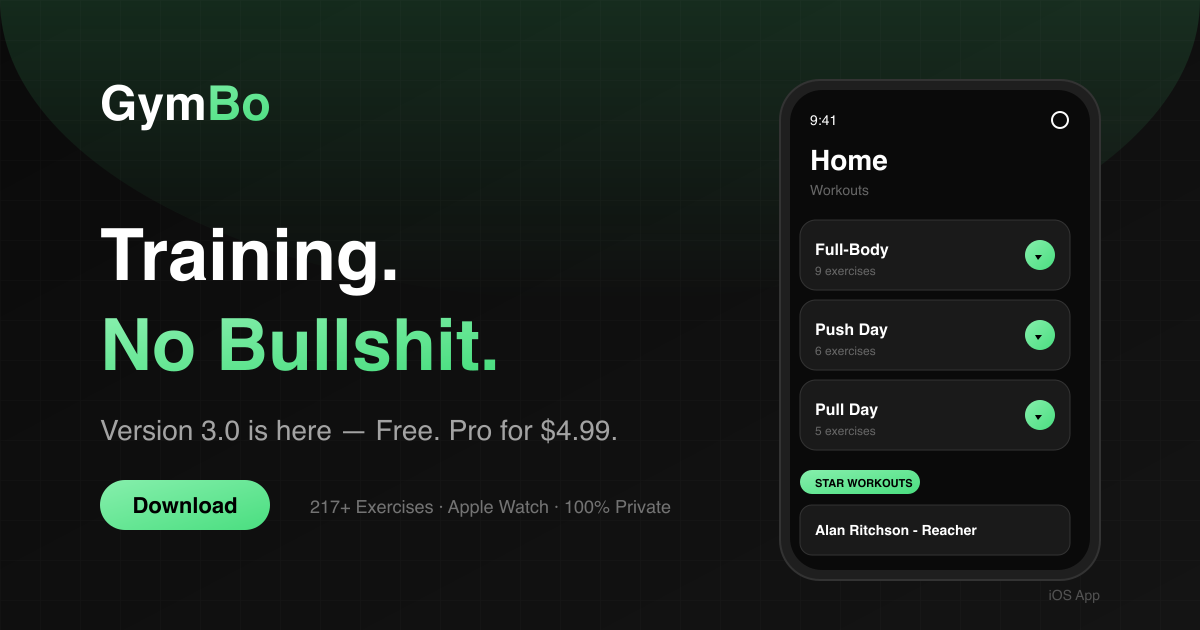
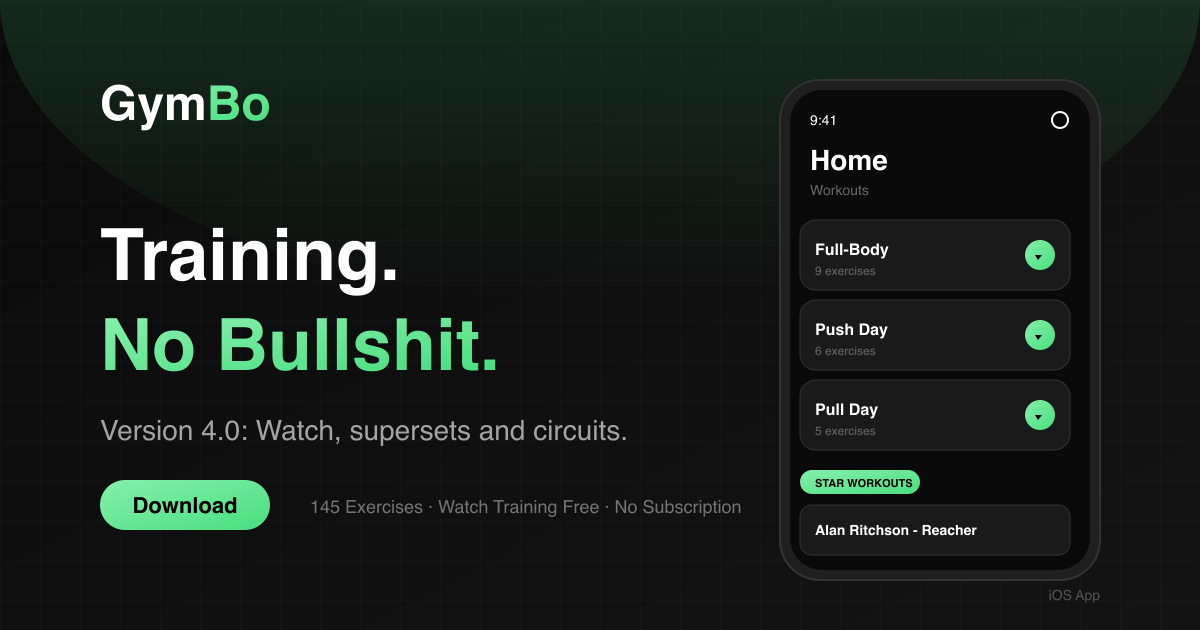
feat: Webseite auf Version 4.0 vorbereiten (#15)
- Social-Preview (og-preview.png DE/EN) neu gerendert: "Version 3.0 ist da", 217+ Übungen, 4,99 € und 100 % Privat entfernt
- Neuer Abschnitt "Neu in GymBo 4.0" (DE/EN), Versions-Pill verweist darauf
- Begriffe vereinheitlicht: Supersatz/Zirkel statt Superset/Circuit (DE)
- FAQ: Wechsel-Ablauf seit 4.0 ergänzt
- Cache-Bust og-preview ?v=3, Claim-Validator prüft den 4.0-Abschnitt

Changed region(s): [[0.1542, 0.6635, 0.5242, 0.7238], [0.2467, 0.7841, 0.6167, 0.8143]]

diff --git a/index.html b/index.html
@@ -38,7 +38,7 @@
         <meta property="og:url" content="https://gymbo.pro/">
         <meta property="og:title" content="GymBo – Krafttraining am Handgelenk">
         <meta property="og:description" content="Vollständige Workouts auf iPhone und Apple Watch. Watch-Training kostenlos, Pro als einmaliger Kauf statt Abo.">
-        <meta property="og:image" content="https://gymbo.pro/og-preview.png?v=2">
+        <meta property="og:image" content="https://gymbo.pro/og-preview.png?v=3">
         <meta property="og:locale" content="de_DE">
         <meta property="og:locale:alternate" content="en_US">
         <meta property="og:site_name" content="GymBo">
@@ -48,7 +48,7 @@
         <meta name="twitter:url" content="https://gymbo.pro/">
         <meta name="twitter:title" content="GymBo – Krafttraining am Handgelenk">
         <meta name="twitter:description" content="Vollständige Workouts auf iPhone und Apple Watch. Watch-Training kostenlos, Pro als einmaliger Kauf statt Abo.">
-        <meta name="twitter:image" content="https://gymbo.pro/og-preview.png?v=2">
+        <meta name="twitter:image" content="https://gymbo.pro/og-preview.png?v=3">
 
         <!-- Favicon -->
         <link rel="icon" type="image/svg+xml" href="/favicon.svg">
@@ -73,7 +73,7 @@
                 "name": "GymBo Free"
             },
             "description": "Watch-first Krafttracker für iPhone und Apple Watch mit 145 Übungen. Watch-Training kostenlos, Pro als einmaliger Kauf statt Abo.",
-            "screenshot": "https://gymbo.pro/og-preview.png?v=2",
+            "screenshot": "https://gymbo.pro/og-preview.png?v=3",
             "author": {
                 "@type": "Person",
                 "name": "Ben Kohler",
@@ -1774,6 +1774,17 @@
                 content: '→';
             }
 
+
+            /* Neu in 4.0 */
+            .whatsnew-section { max-width: 1100px; margin: 0 auto; padding: 96px 24px 8px; }
+            .whatsnew-section h2 { text-align: center; margin-bottom: 12px; }
+            .whatsnew-intro { text-align: center; color: var(--text-secondary); max-width: 560px; margin: 0 auto 40px; }
+            .whatsnew-grid { display: grid; grid-template-columns: repeat(auto-fit, minmax(260px, 1fr)); gap: 16px; }
+            .whatsnew-card { background: var(--bg-surface); border: 1px solid var(--border); border-radius: 20px; padding: 24px; }
+            .whatsnew-card i { font-size: 1.5rem; color: var(--accent); display: block; margin-bottom: 12px; }
+            .whatsnew-card h3 { font-size: 1.05rem; margin-bottom: 6px; }
+            .whatsnew-card p { color: var(--text-secondary); font-size: 0.925rem; line-height: 1.55; margin: 0; }
+
             /* Footer - Minimal Single Line */
             .footer {
                 padding: 32px 24px;
@@ -2217,10 +2228,10 @@
             <section class="hero">
                 <div class="hero-content animate-in">
                     <!-- Version Announcement Pill -->
-                    <a href="/go/app-store" class="version-banner-content" target="_self">
-                        <span class="version-badge">Watch-first</span>
-                        <span class="version-text">Jetzt im App Store</span>
-                        <span class="version-link">Laden</span>
+                    <a href="#neu-in-4" class="version-banner-content">
+                        <span class="version-badge">Neu in 4.0</span>
+                        <span class="version-text">Watch, Supersätze und Zirkel</span>
+                        <span class="version-link">Entdecken</span>
                     </a>
                     <h1>Training.<br><span class="highlight">Ohne Bullshit.</span></h1>
                     <p class="hero-subtitle">
@@ -2260,6 +2271,21 @@
 
             <!-- Content Overlay - Scrolls over Hero -->
             <div class="content-overlay">
+
+            <!-- Neu in 4.0 -->
+            <section class="whatsnew-section animate-in" id="neu-in-4">
+                <h2>Neu in GymBo 4.0</h2>
+                <p class="whatsnew-intro">Das größte Update bisher: Training an der Watch, Supersätze und Zirkel im Wechsel und viele Verbesserungen im Alltag.</p>
+                <div class="whatsnew-grid">
+                    <div class="whatsnew-card"><i class="ph ph-watch"></i><h3>Training an der Apple Watch</h3><p>Starte und absolviere komplette Workouts direkt an der Watch.</p></div>
+                    <div class="whatsnew-card"><i class="ph ph-arrows-left-right"></i><h3>Supersätze und Zirkel im Wechsel</h3><p>Die Übungen einer Gruppe laufen abwechselnd durch, sind im Training und im Plan markiert und lassen sich als Block umsortieren.</p></div>
+                    <div class="whatsnew-card"><i class="ph ph-scales"></i><h3>Links und Rechts wechseln automatisch</h3><p>Einseitige Übungen wechseln die Seite von selbst, auch an der Watch.</p></div>
+                    <div class="whatsnew-card"><i class="ph ph-trend-up"></i><h3>Fortschritts-Feedback</h3><p>Nach jeder abgeschlossenen Übung. In den Einstellungen abschaltbar.</p></div>
+                    <div class="whatsnew-card"><i class="ph ph-chart-line-up"></i><h3>Statistik direkt aus dem Plan</h3><p>Die Statistik einer Übung öffnest du mit einem Tipp im Plan.</p></div>
+                    <div class="whatsnew-card"><i class="ph ph-share-network"></i><h3>Workout teilen</h3><p>Als Grafik für Story oder Beitrag.</p></div>
+                    <div class="whatsnew-card"><i class="ph ph-sun"></i><h3>Besser lesbar im hellen Modus</h3><p>Dazu viele Korrekturen bei Pausentimer, Gewichtseinheiten und Plänen.</p></div>
+                </div>
+            </section>
 
             <!-- Features Section -->
             <section class="features-section" id="features">
@@ -2375,7 +2401,7 @@
                             <i class="ph ph-plus-circle"></i>
                         </div>
                         <h3>Workout erstellen</h3>
-                        <p>Leeres Workout, Quick-Setup, Supersätze, Circuit Training oder der Workout Wizard — erstelle dein perfektes Training genau so, wie du es brauchst.</p>
+                        <p>Leeres Workout, Quick-Setup, Supersätze, Zirkeltraining oder der Workout Wizard. Die Übungen einer Gruppe laufen im Training abwechselnd durch und lassen sich im Plan als Block umsortieren.</p>
                     </div>
                     <div class="feature-visual">
                         <div class="device-frame">
@@ -2395,14 +2421,14 @@
                 <div class="feature-marquee-container">
                     <!-- Row 1 - scrolls left -->
                     <div class="feature-marquee">
-                        <div class="feature-pill"><i class="ph ph-arrows-left-right"></i><span>Supersätze & Circuits</span></div>
+                        <div class="feature-pill"><i class="ph ph-arrows-left-right"></i><span>Supersätze & Zirkel</span></div>
                         <div class="feature-pill"><i class="ph ph-scales"></i><span>Links/Rechts Tracking</span></div>
                         <div class="feature-pill"><i class="ph ph-share-network"></i><span>Export & Backup</span></div>
                         <div class="feature-pill"><i class="ph ph-scissors"></i><span>Trainings splitten</span></div>
                         <div class="feature-pill highlight"><i class="ph ph-star"></i><span>Star-Workout-Vorlagen</span></div>
                         <div class="feature-pill"><i class="ph ph-git-merge"></i><span>Kraft & Cardio mixen</span></div>
                         <!-- Duplicate for seamless loop -->
-                        <div class="feature-pill"><i class="ph ph-arrows-left-right"></i><span>Supersätze & Circuits</span></div>
+                        <div class="feature-pill"><i class="ph ph-arrows-left-right"></i><span>Supersätze & Zirkel</span></div>
                         <div class="feature-pill"><i class="ph ph-scales"></i><span>Links/Rechts Tracking</span></div>
                         <div class="feature-pill"><i class="ph ph-share-network"></i><span>Export & Backup</span></div>
                         <div class="feature-pill"><i class="ph ph-scissors"></i><span>Trainings splitten</span></div>
@@ -2463,7 +2489,7 @@
                             <div class="price-card-period">für immer kostenlos</div>
                             <ul class="price-features">
                                 <li><i class="ph ph-check-circle"></i> Workouts erstellen & bearbeiten</li>
-                                <li><i class="ph ph-check-circle"></i> Alle Workout-Typen (Standard, Superset, Circuit, Sectioned)</li>
+                                <li><i class="ph ph-check-circle"></i> Alle Workout-Typen (Standard, Supersatz, Zirkel, Sectioned)</li>
                                 <li><i class="ph ph-check-circle"></i> Volles Workout-Tracking mit Sets, Gewichten, Reps</li>
                                 <li><i class="ph ph-check-circle"></i> Übungsbibliothek mit 145 Übungen</li>
                                 <li><i class="ph ph-check-circle"></i> Eigene Übungen erstellen</li>

diff --git a/en/index.html b/en/index.html
@@ -38,7 +38,7 @@
         <meta property="og:url" content="https://gymbo.pro/en/">
         <meta property="og:title" content="GymBo – Strength training on your wrist">
         <meta property="og:description" content="Complete workouts on iPhone and Apple Watch. Watch training is free, Pro is a one-time purchase instead of a subscription.">
-        <meta property="og:image" content="https://gymbo.pro/en/og-preview.png?v=2">
+        <meta property="og:image" content="https://gymbo.pro/en/og-preview.png?v=3">
         <meta property="og:locale" content="en_US">
         <meta property="og:locale:alternate" content="de_DE">
         <meta property="og:site_name" content="GymBo">
@@ -48,7 +48,7 @@
         <meta name="twitter:url" content="https://gymbo.pro/en/">
         <meta name="twitter:title" content="GymBo – Strength training on your wrist">
         <meta name="twitter:description" content="Complete workouts on iPhone and Apple Watch. Watch training is free, Pro is a one-time purchase instead of a subscription.">
-        <meta name="twitter:image" content="https://gymbo.pro/en/og-preview.png?v=2">
+        <meta name="twitter:image" content="https://gymbo.pro/en/og-preview.png?v=3">
 
         <!-- Favicon -->
         <link rel="icon" type="image/svg+xml" href="/favicon.svg">
@@ -73,7 +73,7 @@
                 "name": "GymBo Free"
             },
             "description": "Watch-first strength tracker for iPhone and Apple Watch with 145 exercises. Watch training is free, Pro is a one-time purchase instead of a subscription.",
-            "screenshot": "https://gymbo.pro/og-preview.png?v=2",
+            "screenshot": "https://gymbo.pro/og-preview.png?v=3",
             "author": {
                 "@type": "Person",
                 "name": "Ben Kohler",
@@ -1774,6 +1774,17 @@
                 content: '→';
             }
 
+
+            /* Neu in 4.0 */
+            .whatsnew-section { max-width: 1100px; margin: 0 auto; padding: 96px 24px 8px; }
+            .whatsnew-section h2 { text-align: center; margin-bottom: 12px; }
+            .whatsnew-intro { text-align: center; color: var(--text-secondary); max-width: 560px; margin: 0 auto 40px; }
+            .whatsnew-grid { display: grid; grid-template-columns: repeat(auto-fit, minmax(260px, 1fr)); gap: 16px; }
+            .whatsnew-card { background: var(--bg-surface); border: 1px solid var(--border); border-radius: 20px; padding: 24px; }
+            .whatsnew-card i { font-size: 1.5rem; color: var(--accent); display: block; margin-bottom: 12px; }
+            .whatsnew-card h3 { font-size: 1.05rem; margin-bottom: 6px; }
+            .whatsnew-card p { color: var(--text-secondary); font-size: 0.925rem; line-height: 1.55; margin: 0; }
+
             /* Footer - Minimal Single Line */
             .footer {
                 padding: 32px 24px;
@@ -2217,10 +2228,10 @@
             <section class="hero">
                 <div class="hero-content animate-in">
                     <!-- Version Announcement Pill -->
-                    <a href="/en/go/app-store" class="version-banner-content" target="_self">
-                        <span class="version-badge">Watch-first</span>
-                        <span class="version-text">Now in App Store</span>
-                        <span class="version-link">Get it</span>
+                    <a href="#whats-new-4" class="version-banner-content">
+                        <span class="version-badge">New in 4.0</span>
+                        <span class="version-text">Watch, supersets and circuits</span>
+                        <span class="version-link">Explore</span>
                     </a>
                     <h1>Training.<br><span class="highlight">No Bullshit.</span></h1>
                     <p class="hero-subtitle">
@@ -2260,6 +2271,21 @@
 
             <!-- Content Overlay - Scrolls over Hero -->
             <div class="content-overlay">
+
+            <!-- Neu in 4.0 -->
+            <section class="whatsnew-section animate-in" id="whats-new-4">
+                <h2>What's new in GymBo 4.0</h2>
+                <p class="whatsnew-intro">The biggest update yet: training on the Watch, supersets and circuits that alternate, and many everyday improvements.</p>
+                <div class="whatsnew-grid">
+                    <div class="whatsnew-card"><i class="ph ph-watch"></i><h3>Train on Apple Watch</h3><p>Start and complete full workouts right on your wrist.</p></div>
+                    <div class="whatsnew-card"><i class="ph ph-arrows-left-right"></i><h3>Alternating supersets and circuits</h3><p>Grouped exercises run back and forth, are marked in training and in your plan, and can be reordered as one block.</p></div>
+                    <div class="whatsnew-card"><i class="ph ph-scales"></i><h3>Left and right switch automatically</h3><p>One-sided exercises change sides on their own, on the Watch too.</p></div>
+                    <div class="whatsnew-card"><i class="ph ph-trend-up"></i><h3>Progress feedback</h3><p>After each completed exercise. You can turn it off in Settings.</p></div>
+                    <div class="whatsnew-card"><i class="ph ph-chart-line-up"></i><h3>Statistics straight from your plan</h3><p>Open an exercise's statistics with one tap in your plan.</p></div>
+                    <div class="whatsnew-card"><i class="ph ph-share-network"></i><h3>Share your workout</h3><p>As a graphic for stories or posts.</p></div>
+                    <div class="whatsnew-card"><i class="ph ph-sun"></i><h3>Better readability in Light Mode</h3><p>Plus many fixes for the rest timer, weight units, and plans.</p></div>
+                </div>
+            </section>
 
             <!-- Features Section -->
             <section class="features-section" id="features">
@@ -2375,7 +2401,7 @@
                             <i class="ph ph-plus-circle"></i>
                         </div>
                         <h3>Create Workout</h3>
-                        <p>Empty workout, quick setup, supersets, circuit training or the workout wizard — create your perfect training exactly the way you need it.</p>
+                        <p>Empty workout, quick setup, supersets, circuit training or the workout wizard. Grouped exercises alternate during training and can be reordered as one block in your plan.</p>
                     </div>
                     <div class="feature-visual">
                         <div class="device-frame">

diff --git a/faq.html b/faq.html
@@ -23,7 +23,7 @@
         <meta property="og:url" content="https://gymbo.pro/faq.html">
         <meta property="og:title" content="GymBo FAQ - Häufige Fragen">
         <meta property="og:description" content="Antworten auf häufig gestellte Fragen zu GymBo: Preise, Features, Apple Watch Support und mehr.">
-        <meta property="og:image" content="https://gymbo.pro/og-preview.png?v=2">
+        <meta property="og:image" content="https://gymbo.pro/og-preview.png?v=3">
         <meta property="og:locale" content="de_DE">
         <meta property="og:site_name" content="GymBo">
 
@@ -31,7 +31,7 @@
         <meta name="twitter:card" content="summary_large_image">
         <meta name="twitter:title" content="GymBo FAQ - Häufige Fragen">
         <meta name="twitter:description" content="Antworten auf häufig gestellte Fragen zu GymBo: Preise, Features, Apple Watch Support und mehr.">
-        <meta name="twitter:image" content="https://gymbo.pro/og-preview.png?v=2">
+        <meta name="twitter:image" content="https://gymbo.pro/og-preview.png?v=3">
 
         <!-- Favicon -->
         <link rel="icon" type="image/svg+xml" href="/favicon.svg">
@@ -65,7 +65,7 @@
                     "name": "Welche Trainingsmethoden unterstützt GymBo?",
                     "acceptedAnswer": {
                         "@type": "Answer",
-                        "text": "GymBo unterstützt Standard-Training, Superset-Training (zwei Übungen abwechselnd ohne Pause) und Circuit-Training (mehrere Stationen in Runden)."
+                        "text": "GymBo unterstützt Standard-Training, Supersatz-Training (zwei Übungen abwechselnd ohne Pause) und Zirkeltraining (mehrere Stationen in Runden). Seit Version 4.0 laufen die Übungen einer Gruppe im Training abwechselnd durch."
                     }
                 },
                 {
@@ -810,7 +810,7 @@
                         </button>
                         <div class="accordion-content">
                             <div class="accordion-body">
-                                <p>GymBo ist ein Watch-first Krafttracker für iPhone und Apple Watch. Du planst, trackst und analysierst Standard-, Superset- und Circuit-Training mit 145 vorinstallierten Übungen und erklärbaren Progressionsvorschlägen.</p>
+                                <p>GymBo ist ein Watch-first Krafttracker für iPhone und Apple Watch. Du planst, trackst und analysierst Standard-, Supersatz- und Zirkeltraining mit 145 vorinstallierten Übungen und erklärbaren Progressionsvorschlägen.</p>
                             </div>
                         </div>
                     </div>
@@ -853,8 +853,8 @@
                                 <p>GymBo unterstützt drei Trainingsmethoden:</p>
                                 <ul>
                                     <li><strong>Standard-Training:</strong> Klassisches sequentielles Training mit einzelnen Übungen</li>
-                                    <li><strong>Superset-Training:</strong> Zwei Übungen werden abwechselnd ohne Pause ausgeführt (A1→A2)</li>
-                                    <li><strong>Circuit-Training:</strong> Mehrere Stationen werden nacheinander in Runden absolviert</li>
+                                    <li><strong>Supersatz-Training:</strong> Zwei Übungen werden abwechselnd ohne Pause ausgeführt (A1→A2)</li>
+                                    <li><strong>Zirkeltraining:</strong> Mehrere Stationen werden nacheinander in Runden absolviert</li>
                                 </ul>
                             </div>
                         </div>

diff --git a/en/faq.html b/en/faq.html
@@ -23,7 +23,7 @@
         <meta property="og:url" content="https://gymbo.pro/en/faq.html">
         <meta property="og:title" content="GymBo FAQ - Frequently Asked Questions">
         <meta property="og:description" content="Answers to frequently asked questions about GymBo: Pricing, features, Apple Watch support and more.">
-        <meta property="og:image" content="https://gymbo.pro/og-preview.png?v=2">
+        <meta property="og:image" content="https://gymbo.pro/og-preview.png?v=3">
         <meta property="og:locale" content="en_US">
         <meta property="og:site_name" content="GymBo">
 
@@ -31,7 +31,7 @@
         <meta name="twitter:card" content="summary_large_image">
         <meta name="twitter:title" content="GymBo FAQ - Frequently Asked Questions">
         <meta name="twitter:description" content="Answers to frequently asked questions about GymBo: Pricing, features, Apple Watch support and more.">
-        <meta name="twitter:image" content="https://gymbo.pro/og-preview.png?v=2">
+        <meta name="twitter:image" content="https://gymbo.pro/og-preview.png?v=3">
 
         <!-- Favicon -->
         <link rel="icon" type="image/svg+xml" href="/favicon.svg">

diff --git a/manifest.html b/manifest.html
@@ -23,7 +23,7 @@
         <meta property="og:url" content="https://gymbo.pro/manifest.html">
         <meta property="og:title" content="GymBo Manifest - Meine Philosophie">
         <meta property="og:description" content="Deine App, deine Regeln. Basis kostenlos, Pro als einmaliger Kauf. Kein Abo, niemals.">
-        <meta property="og:image" content="https://gymbo.pro/og-preview.png?v=2">
+        <meta property="og:image" content="https://gymbo.pro/og-preview.png?v=3">
         <meta property="og:locale" content="de_DE">
         <meta property="og:site_name" content="GymBo">
 
@@ -31,7 +31,7 @@
         <meta name="twitter:card" content="summary_large_image">
         <meta name="twitter:title" content="GymBo Manifest - Meine Philosophie">
         <meta name="twitter:description" content="Deine App, deine Regeln. Basis kostenlos, Pro als einmaliger Kauf. Kein Abo, niemals.">
-        <meta name="twitter:image" content="https://gymbo.pro/og-preview.png?v=2">
+        <meta name="twitter:image" content="https://gymbo.pro/og-preview.png?v=3">
 
         <!-- Favicon -->
         <link rel="icon" type="image/svg+xml" href="/favicon.svg">

diff --git a/roadmap.html b/roadmap.html
@@ -23,7 +23,7 @@
         <meta property="og:url" content="https://gymbo.pro/roadmap.html">
         <meta property="og:title" content="GymBo Roadmap - Kommende Features">
         <meta property="og:description" content="Entdecke kommende GymBo Features: Apple Watch App, erweiterte Statistiken, und mehr.">
-        <meta property="og:image" content="https://gymbo.pro/og-preview.png?v=2">
+        <meta property="og:image" content="https://gymbo.pro/og-preview.png?v=3">
         <meta property="og:locale" content="de_DE">
         <meta property="og:site_name" content="GymBo">
 
@@ -31,7 +31,7 @@
         <meta name="twitter:card" content="summary_large_image">
         <meta name="twitter:title" content="GymBo Roadmap - Kommende Features">
         <meta name="twitter:description" content="Entdecke kommende GymBo Features: Apple Watch App, erweiterte Statistiken, und mehr.">
-        <meta name="twitter:image" content="https://gymbo.pro/og-preview.png?v=2">
+        <meta name="twitter:image" content="https://gymbo.pro/og-preview.png?v=3">
 
         <!-- Favicon -->
         <link rel="icon" type="image/svg+xml" href="/favicon.svg">

diff --git a/en/manifest.html b/en/manifest.html
@@ -23,7 +23,7 @@
         <meta property="og:url" content="https://gymbo.pro/en/manifest.html">
         <meta property="og:title" content="GymBo Manifest - My Philosophy">
         <meta property="og:description" content="Your app, your rules. Core free, Pro as a one-time purchase. No subscription, never.">
-        <meta property="og:image" content="https://gymbo.pro/og-preview.png?v=2">
+        <meta property="og:image" content="https://gymbo.pro/og-preview.png?v=3">
         <meta property="og:locale" content="en_US">
         <meta property="og:site_name" content="GymBo">
 
@@ -31,7 +31,7 @@
         <meta name="twitter:card" content="summary_large_image">
         <meta name="twitter:title" content="GymBo Manifest - My Philosophy">
         <meta name="twitter:description" content="Your app, your rules. Core free, Pro as a one-time purchase. No subscription, never.">
-        <meta name="twitter:image" content="https://gymbo.pro/og-preview.png?v=2">
+        <meta name="twitter:image" content="https://gymbo.pro/og-preview.png?v=3">
 
         <!-- Favicon -->
         <link rel="icon" type="image/svg+xml" href="/favicon.svg">

diff --git a/en/roadmap.html b/en/roadmap.html
@@ -23,7 +23,7 @@
         <meta property="og:url" content="https://gymbo.pro/en/roadmap.html">
         <meta property="og:title" content="GymBo Roadmap - Upcoming Features">
         <meta property="og:description" content="Discover upcoming GymBo features: Apple Watch app, extended statistics, and more.">
-        <meta property="og:image" content="https://gymbo.pro/og-preview.png?v=2">
+        <meta property="og:image" content="https://gymbo.pro/og-preview.png?v=3">
         <meta property="og:locale" content="en_US">
         <meta property="og:site_name" content="GymBo">
 
@@ -31,7 +31,7 @@
         <meta name="twitter:card" content="summary_large_image">
         <meta name="twitter:title" content="GymBo Roadmap - Upcoming Features">
         <meta name="twitter:description" content="Discover upcoming GymBo features: Apple Watch app, extended statistics, and more.">
-        <meta name="twitter:image" content="https://gymbo.pro/og-preview.png?v=2">
+        <meta name="twitter:image" content="https://gymbo.pro/og-preview.png?v=3">
 
         <!-- Favicon -->
         <link rel="icon" type="image/svg+xml" href="/favicon.svg">

diff --git a/scripts/validate_product_claims.py b/scripts/validate_product_claims.py
@@ -35,8 +35,8 @@ BLOCKED_PATTERNS = {
 }
 
 REQUIRED_PHRASES = {
-    "index.html": ("145 Übungen", "ohne iPhone in der Nähe", "Watch-Training ist kostenlos"),
-    "en/index.html": ("145 exercises", "without your iPhone nearby", "Watch training is free"),
+    "index.html": ("Neu in GymBo 4.0", "145 Übungen", "ohne iPhone in der Nähe", "Watch-Training ist kostenlos"),
+    "en/index.html": ("What's new in GymBo 4.0", "145 exercises", "without your iPhone nearby", "Watch training is free"),
     "faq.html": ("145 vorinstallierte Übungen", "Watch-Training gehört zur kostenlosen Basis"),
     "en/faq.html": ("145 pre-installed exercises", "Watch training is part of the free core"),
     "manifest.html": ("Watch-Training", "kostenlosen Basis"),
